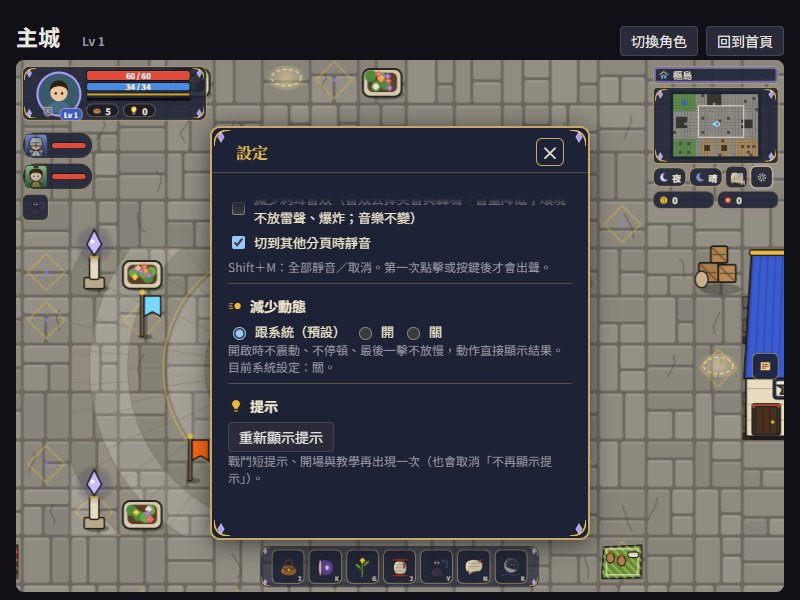
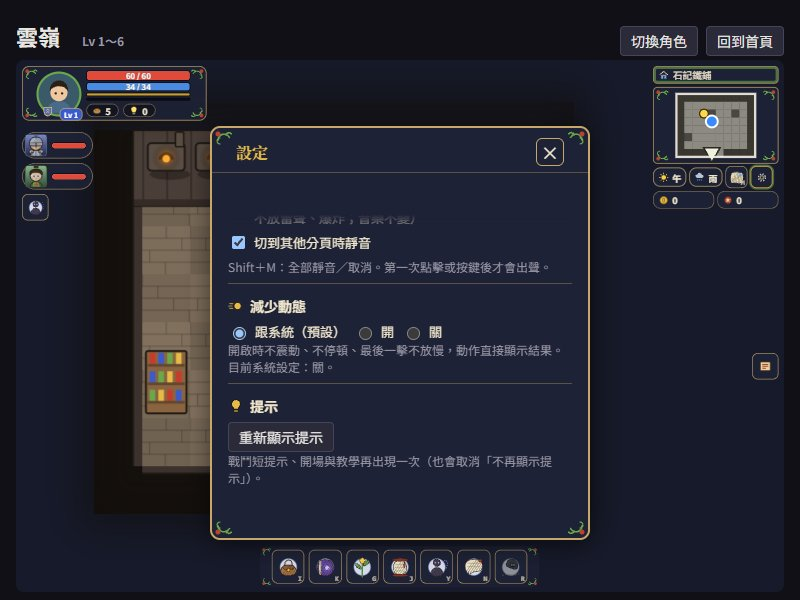
fix(client): RT-3b interior map hugs above toolbar with gap; 6F-7 follow-up screenshots

diff --git a/client/src/world/camera.ts b/client/src/world/camera.ts
@@ -58,17 +58,23 @@ export const NO_INSETS: ViewInsets = { top: 0, right: 0, bottom: 0, left: 0 };
  * 內容比安全區小＝在安全區裡置中；否則以 `center` 為安全區的中心，夾在 [−lo, 內容−可視區＋hi]
  *（地圖邊緣最多捲到安全區的邊上，不會躲在 HUD 底下）。`lo`＝`hi`＝0 時同 6B-6：比可視區小置中、否則夾在 [0, 內容−可視區]。
  */
-export function clampAxis(view: number, content: number, center: number, lo = 0, hi = 0): number {
+/** RT-3b：地圖貼齊工具列那一邊時，和工具列之間留的距離（CSS 像素）。 */
+export const HUG_GAP = 32;
+
+export function clampAxis(view: number, content: number, center: number, lo = 0, hi = 0, focusHalf = 0): number {
   if (!(view > 0)) return 0;
   const safe = view - lo - hi;
   if (!(safe > 0)) return clampAxis(view, content, center); // HUD 比畫面還大（極小視窗）：不扣
   if (content <= safe) return -(lo + (safe - content) / 2);
   // RT-3b（6F-7 檢查小修：窄視窗的室內地圖，出口「出」格子蓋在工具列上）：比安全區大、但扣掉 `hi`（下方工具列）
-  // 還放得下時，整張貼齊 `hi` 那一邊（例如房間下緣貼在工具列上方，往上對齊），不再跟著主角捲到工具列底下。
-  // 這時 `lo` 那一邊（左上主角卡）會蓋到地圖的一角：主角卡只在左邊，蓋到的是邊角而不是出口。
+  // 還放得下時，整張貼齊 `hi` 那一邊（房間下緣在工具列上方，往上對齊），不再跟著主角捲到工具列底下。
+  // 主角（`center`±`focusHalf`）仍要在安全區裡（6F-3）：貼齊後主角會跑進 `lo`（左上主角卡那一帶）時，照舊跟著主角。
   if (hi > 0 && content <= view - hi) {
-    const y = content - view + hi;
-    return y === 0 ? 0 : y;
+    // 和工具列之間再留一點（最多 HUG_GAP，不夠就少留），出口格不會貼著工具列、也不會讓工具列跟著變淡
+    const gap = Math.min(HUG_GAP, view - hi - content);
+    const y = content - view + hi + gap;
+    const onScreen = center - y;
+    if (onScreen - focusHalf >= lo && onScreen + focusHalf <= view - hi) return y === 0 ? 0 : y;
   }
   const x = Math.max(-lo, Math.min(content - view + hi, center - lo - safe / 2));
   return x === 0 ? 0 : x; // 不回 −0
@@ -86,8 +92,8 @@ export function followCamera(
   const size = canvasSize(grid, scale);
   const c = tileCenter(grid, focus, scale);
   return {
-    x: clampAxis(view.width, size.width, c.x, insets.left, insets.right),
-    y: clampAxis(view.height, size.height, c.y, insets.top, insets.bottom),
+    x: clampAxis(view.width, size.width, c.x, insets.left, insets.right, TILE_SIZE * scale),
+    y: clampAxis(view.height, size.height, c.y, insets.top, insets.bottom, TILE_SIZE * scale),
     scale,
   };
 }

diff --git a/client/src/ui/rt3b6f7.test.ts b/client/src/ui/rt3b6f7.test.ts
@@ -6,7 +6,7 @@ import { renderToStaticMarkup } from "react-dom/server";
 import { describe, expect, it } from "vitest";
 import { hudSideInsets } from "../battle/stageLayout";
 import { readSources, readStyleFiles, stripCssComments } from "../test/sourceScan";
-import { clampAxis } from "../world/camera";
+import { clampAxis, HUG_GAP } from "../world/camera";
 import { HUD_BACKING, HUD_BACKING_R, HUD_BAR_ORDER, HudBarIcon } from "../world/HudBarIcons";
 import { keepWords, splitKeepWords } from "./keepWords";
 import { BOTTOM_FADE_PX, overflowFlag } from "./PopupFrame";
@@ -120,11 +120,16 @@ describe("必修 2：戰鬥紀錄跟著左欄收窄", () => {
 describe("小修 4：窄視窗的室內地圖避開工具列", () => {
   it("比安全區大、但工具列上方放得下：下緣貼在工具列上方（往上對齊）", () => {
     // 800×600 鐵匠鋪：舞台 530、房間 412、上方主角卡 160、下方工具列 44
-    const y = clampAxis(530, 412, 100, 160, 44);
-    expect(-y + 412).toBe(530 - 44); // 房間下緣＝工具列上緣
+    const y = clampAxis(530, 412, 250, 160, 44, 24);
+    expect(-y + 412).toBe(530 - 44 - HUG_GAP); // 房間下緣在工具列上方，留 HUG_GAP
     expect(-y).toBeGreaterThanOrEqual(0);
-    // 主角走到哪裡都一樣（不再捲到工具列底下）
-    expect(clampAxis(530, 412, 400, 160, 44)).toBe(y);
+    // 空間不夠留 HUG_GAP：少留，但下緣不超過工具列
+    expect(-clampAxis(530, 480, 300, 160, 44, 24) + 480).toBeLessThanOrEqual(530 - 44);
+    // 主角在房間中下段走動時鏡頭不動（不再捲到工具列底下）
+    expect(clampAxis(530, 412, 380, 160, 44, 24)).toBe(y);
+    // 主角走到房間最上面、貼齊後會跑進主角卡那一帶：照舊跟著主角（6F-3：主角一定在安全區裡）
+    const top = clampAxis(530, 412, 40, 160, 44, 24);
+    expect(40 - top - 24).toBeGreaterThanOrEqual(160);
   });
   it("放得進安全區照舊置中；比畫面大照舊跟著主角", () => {
     expect(clampAxis(530, 200, 100, 160, 44)).toBe(-(160 + (530 - 204 - 200) / 2));
